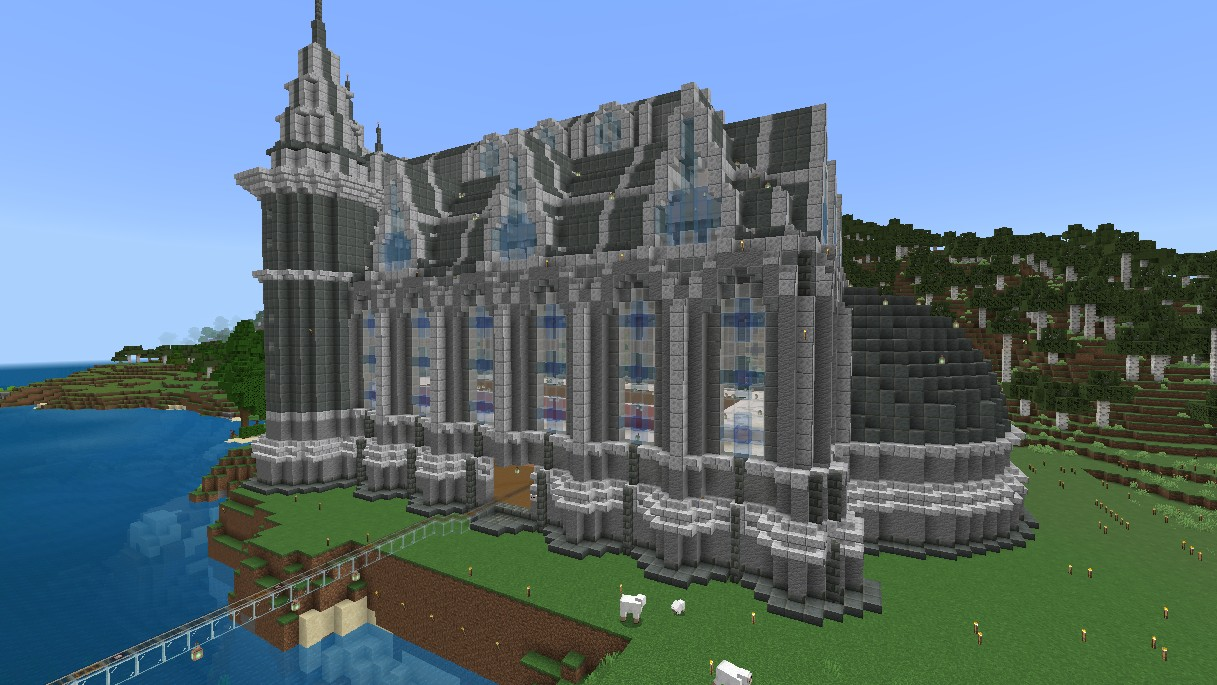
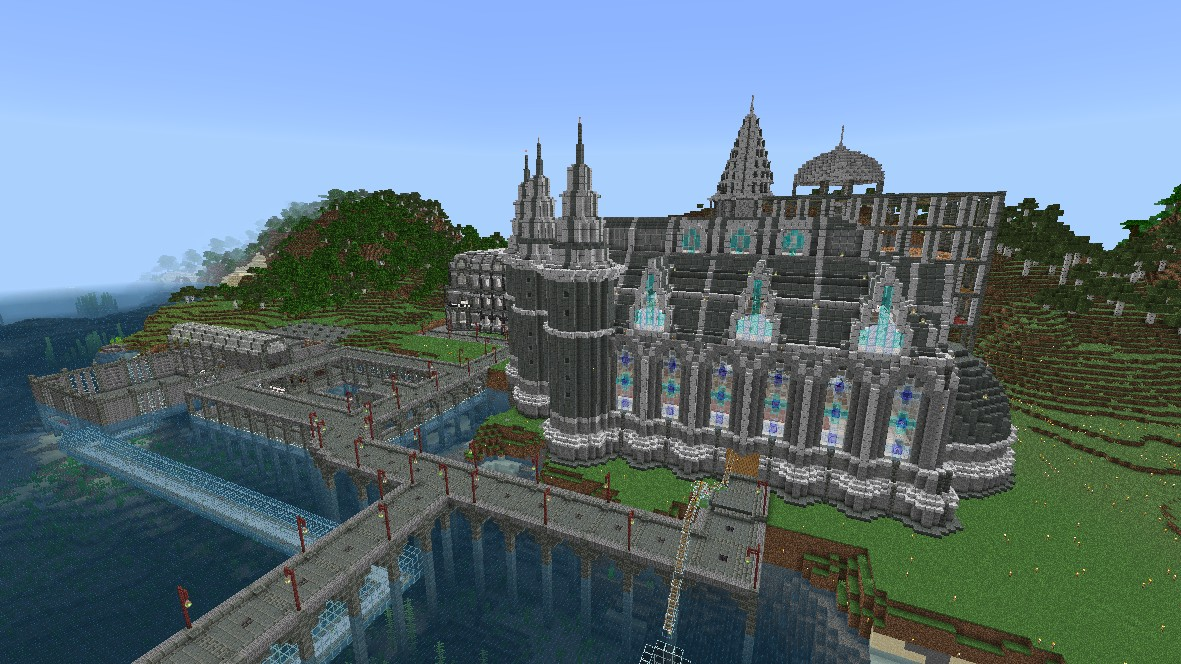
マップ更新

diff --git a/index.html b/index.html
@@ -133,7 +133,7 @@
   <script src="https://unpkg.com/leaflet/dist/leaflet.js"></script>
   <script>
     // 画像のキャッシュ対策のため更新時にバージョンアップ
-    const VERSION = "?ver=2.0"
+    const VERSION = "?ver=2.0.1"
 
     // タイルのサイズを監視して安全に +1px する
     function watchTileSize(tile) {
@@ -788,7 +788,7 @@
       {
         latlng: [450, 1730],
         data: {
-          title: "あかみクラブ",
+          title: "あかみ城(建設中)",
           explane: "制作者 : あかみ",
           image: "images/akamikurabu.jpeg"
         }
@@ -831,6 +831,22 @@
           title: "マセイモを持ち上げる塩ポテト像",
           explane: "制作者 : 塩ポテト君",
           image: "images/potato_imo_statue.jpeg"
+        }
+      },
+      {
+        latlng: [670, -1350],
+        data: {
+          title: "サンタ",
+          explane: "制作者不明",
+          image: "images/santa.jpeg"
+        }
+      },
+      {
+        latlng: [260, -420],
+        data: {
+          title: "クレーンで持ち上げられるアヒル像",
+          explane: "制作者 : 塩ポテト君",
+          image: "images/ahiru.jpeg"
         }
       }
     ]
@@ -987,6 +1003,15 @@
       '#00ff00'
     );
 
+    drawRailway(
+      [
+        [170, -210],
+        [840, -210]
+      ],
+      '爆速芋の手線',
+      '#DBA641'
+    );
+
     function drawStation(point, name, cssClass, railwayLayer) {
       var myIcon = L.divIcon({ className: cssClass, iconAnchor: [13, 13] });
       L.marker(point, { icon: myIcon }).addTo(railwayLayer)
@@ -1023,6 +1048,9 @@
     drawStation([375, 1300], 'アウターヘブン駅', 'icon7', railwayLayer);
 
     drawStation([660, 1040], "ハンモザ駅", "icon8", railwayLayer);
+
+    drawStation([170, -210], "塩ポテト像駅","icon9",railwayLayer);
+    drawStation([840, -210], "本拠点前駅","icon9",railwayLayer);
 
     railwayLayer.addTo(map)
   </script>
@@ -1104,10 +1132,27 @@
       background-color: rgb(0, 255, 0);
     }
 
+    .icon9 {
+      width: 20px !important;
+      height: 20px !important;
+      border-radius: 10px;
+      border: 3px solid #fdfdfd;
+      box-shadow: 1px 1px 4px rgba(0, 0, 0, 0.8);
+      background-color: rgb(206, 189, 112);
+    }
+
     .leaflet-image-layer {
       image-rendering: pixelated;
       /* 一番効果が高い */
       image-rendering: crisp-edges;
+    }
+
+    .leaflet-control-zoom {
+      border: 2px solid #ff7c5c !important;
+    }
+
+    .leaflet-control-zoom-in {
+      border-bottom: 1px solid #000 !important;
     }
   </style>
 
